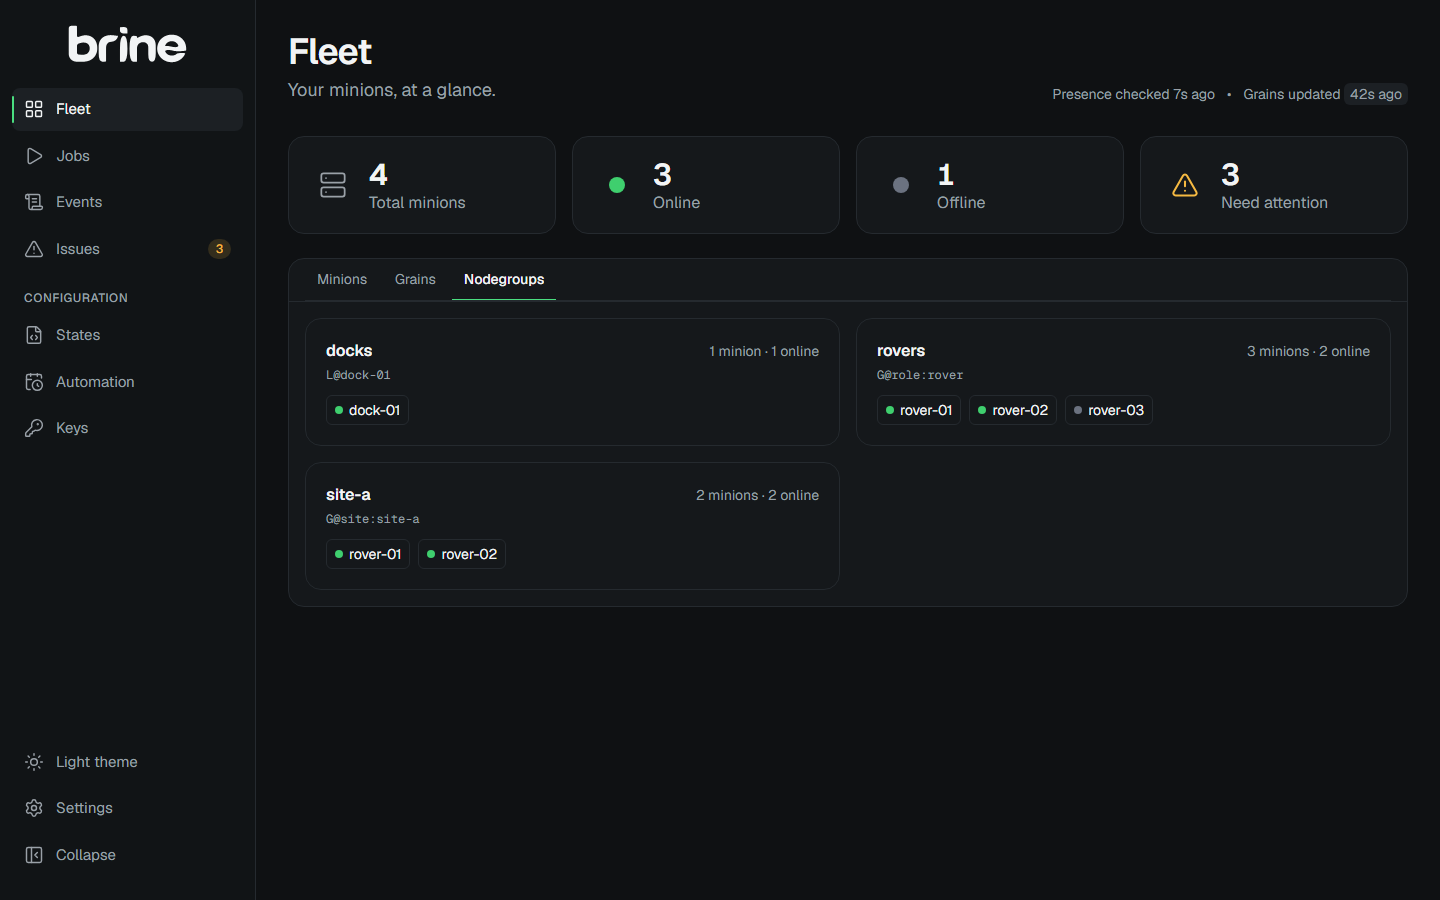
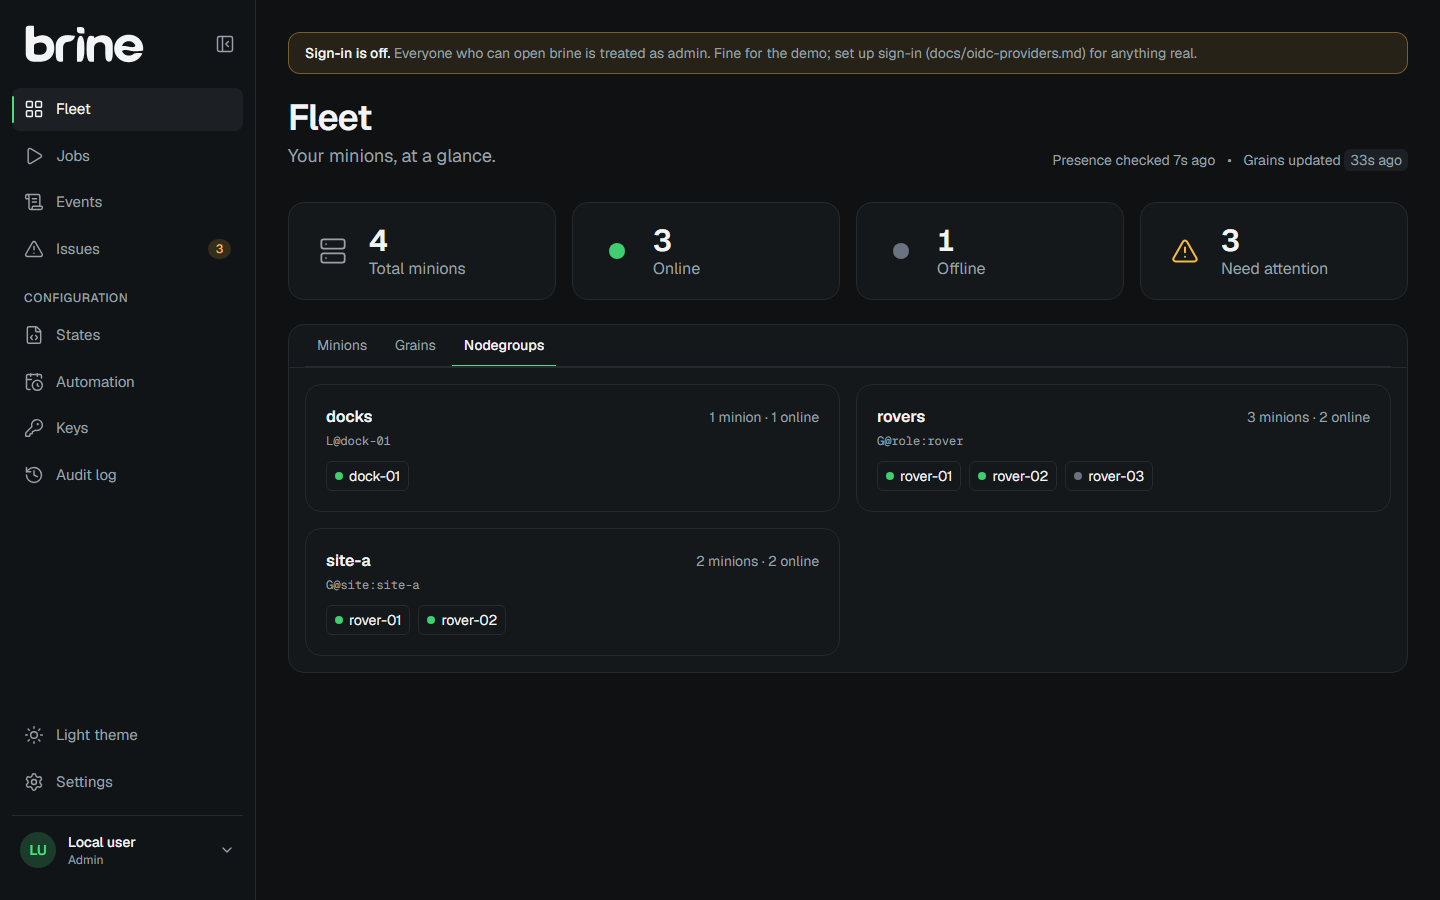
Docs: setting up sign-in with each OIDC provider; audit log screenshots
- docs/oidc-providers.md: what every provider needs, then Google, Okta, Microsoft Entra,
  Keycloak, and GitHub via Dex. Each deployment registers its own client.
- config.example.yaml: public_url, auth.provider, session length, role notes.
- README: sign-in in the feature list and dev instructions, Audit log page; screenshots
  regenerated (the demo runs with sign-in off and says so on every page).
- Decisions 13 (signed-cookie sessions, roles re-read every request) and 14 (sign-in off must
  be asked for). Backlog: Phase 2 done, CSRF header before the first write.

diff --git a/docs/oidc-providers.md b/docs/oidc-providers.md
@@ -1,0 +1,140 @@
+# Sign-in: setting up an OIDC provider
+
+brine signs people in with OpenID Connect, so your team uses the accounts they already have.
+Each brine deployment registers **its own** client with its own provider: nothing is shared
+between installs, and no client ID or secret ships with brine.
+
+The [demo](../README.md#demo-salt-fleet) runs with sign-in off (`auth.provider: none`), so you
+don't need any of this to try brine.
+
+## What every provider needs
+
+1. **Register a "web application" client** (sometimes called confidential client) that uses the
+   authorization code flow.
+2. **Allow one redirect URI:** `<public_url>/api/auth/callback`, for example
+   `https://brine.example.com/api/auth/callback`. It must match exactly: scheme, host, port and
+   path.
+3. **Put the client in brine's config.** Keep the ID and secret out of the file with `${VAR}`
+   placeholders and set them in the environment:
+
+   ```yaml
+   public_url: https://brine.example.com   # how browsers reach brine
+
+   auth:
+     provider: oidc
+     issuer: https://accounts.google.com  # see each provider below
+     client_id: ${OIDC_CLIENT_ID}
+     client_secret: ${OIDC_CLIENT_SECRET}
+     allowed_domains: [example.com]       # optional: refuse every other domain outright
+
+   roles:                                 # email patterns, highest matching role wins
+     viewer:   ["*@example.com"]
+     operator: ["alice@example.com"]
+     admin:    ["bob@example.com"]
+   ```
+
+brine reads `<issuer>/.well-known/openid-configuration`, asks for the `openid email profile`
+scopes, and identifies people by the `email` claim. It refuses a sign-in when the provider says
+the email isn't verified, when the domain isn't in `allowed_domains`, or when no role pattern
+matches. Roles are checked again on every request, so removing someone from `roles` takes effect
+on their next click, not when their session ends.
+
+If `auth` is half filled in (say, an issuer but no secret), brine refuses to start and says what's
+missing, rather than quietly running with sign-in off.
+
+### Trying it locally
+
+Register `http://localhost:5173/api/auth/callback` (the Vite dev server, which forwards `/api`
+to the backend) and, if you also open the backend directly, `http://localhost:8000/api/auth/callback`.
+Put the ID and secret in a git-ignored `.env` at the repo root (see `.env.example`) and start the
+backend with it:
+
+```bash
+cd backend
+BRINE_CONFIG=../config.yaml uv run --env-file ../.env uvicorn app.main:create_app --factory --reload
+```
+
+### Behind a reverse proxy
+
+Set `public_url`. Without it brine builds the redirect URI from each request, which only works
+when the proxy forwards the original `Host` header and scheme. Session cookies are marked
+`Secure` whenever `public_url` starts with `https://`.
+
+## Google
+
+Works for personal Google accounts and Google Workspace.
+
+1. In the [Google Cloud console](https://console.cloud.google.com/), pick or create a project.
+2. **Google Auth Platform › Branding:** give the app a name and support email.
+3. **Audience:** *Internal* (Workspace only) limits sign-in to your organisation. *External*
+   starts in testing mode, where only the test users you list can sign in; that's fine for a
+   small team.
+4. **Clients › Create client:** type *Web application*, add the redirect URI(s) above.
+5. Copy the client ID and secret into your environment.
+
+```yaml
+auth:
+  issuer: https://accounts.google.com
+  allowed_domains: [example.com]   # your Workspace domain; leave out for personal accounts
+```
+
+## Okta
+
+1. **Applications › Create App Integration:** *OIDC - OpenID Connect*, then *Web Application*.
+2. Grant type *Authorization Code*; add the redirect URI as a sign-in redirect URI.
+3. Assign the people or groups who should reach brine (roles in brine's config still apply).
+
+```yaml
+auth:
+  issuer: https://example.okta.com   # or https://example.okta.com/oauth2/default
+```
+
+## Microsoft Entra ID (Azure AD)
+
+1. **App registrations › New registration.** Supported account types: *this organizational
+   directory only* (single tenant). Redirect URI: platform *Web*, the URI above.
+2. **Certificates & secrets › New client secret.** Copy the value (shown once).
+3. **Token configuration › Add optional claim › ID token › `email`.**
+
+```yaml
+auth:
+  issuer: https://login.microsoftonline.com/<tenant-id>/v2.0
+  allowed_domains: [example.com]
+```
+
+Use the single-tenant issuer above, never `common` or `organizations`. Entra doesn't send
+`email_verified`, and in multi-tenant setups the `email` claim can be set by another tenant's
+admin, so it can't be trusted to identify someone. In your own tenant, only your admins control
+it. Keep `allowed_domains` set as well.
+
+## Keycloak
+
+1. In your realm, **Clients › Create client:** type *OpenID Connect*, then turn on *Client
+   authentication* and *Standard flow*.
+2. Add the redirect URI under *Valid redirect URIs*.
+3. Copy the secret from the client's *Credentials* tab.
+
+```yaml
+auth:
+  issuer: https://keycloak.example.com/realms/<realm>
+```
+
+Keycloak sends `email_verified`; users whose email isn't verified in Keycloak are refused.
+
+## GitHub, GitLab and others without OIDC
+
+GitHub's sign-in is plain OAuth 2.0, not OpenID Connect, so brine can't use it directly. Put an
+OIDC broker in front: [Dex](https://dexidp.io/) and Keycloak can both sign people in with GitHub
+and hand brine a standard OIDC identity. GitLab, authentik, Authelia, Zitadel and other OIDC
+providers work with the general steps above.
+
+## Sign-in off
+
+```yaml
+auth:
+  provider: none
+  anonymous_role: viewer   # what everyone gets; brine shows a banner saying so
+```
+
+For the demo and for single-user setups on a trusted network only: anyone who can reach brine
+gets `anonymous_role`. Nothing is asked of anyone, and the audit log records them as `local`.

diff --git a/README.md b/README.md
@@ -9,11 +9,11 @@
 
 ---
 
-> **Status: early development.** Every read-only page works against the demo fleet. Sign-in (OIDC) and roles are next, then running commands. Follow [docs/backlog.md](docs/backlog.md) for progress.
+> **Status: early development.** Every read-only page works against the demo fleet, behind OIDC sign-in and roles. Running commands comes next, starting with key management. Follow [docs/backlog.md](docs/backlog.md) for progress.
 
 brine plugs into an existing **salt-master + salt-api** and gives your team a clean, fast view of the fleet:
 
-- **Single sign-on** through any OIDC provider (Google, GitHub, Okta, Keycloak, Azure AD). No Salt credentials for end users.
+- **Single sign-on** through any OIDC provider: Google, Okta, Microsoft Entra, Keycloak, or GitHub via Dex ([setup](docs/oidc-providers.md)). Viewer, operator and admin roles by email pattern. No Salt credentials for end users.
 - **Live vs. cached, clearly separated.** Online now, or last seen *X* ago, with grains marked "as of" when they were collected.
 - **Per-minion pages** with grains (current and history), recent jobs, and a presence timeline.
 - **Job history that outlives Salt's job cache.**
@@ -149,10 +149,22 @@ to the minion or job. The count also appears on the Fleet page and in the sideba
   <img alt="The Issues page: a failed state on dock-01, rover-03 offline, rover-04 waiting for approval" src="docs/assets/screenshots/issues-light.png">
 </picture>
 
+### Audit log
+
+Admins only. Every sign-in (and every refused one, with the reason), sign-out, and look at
+sensitive data such as a minion's pillar, with who, when and from where. Commands will land here
+too.
+
+<picture>
+  <source media="(prefers-color-scheme: dark)" srcset="docs/assets/screenshots/audit-dark.png">
+  <img alt="The Audit log page: sign-ins, refused sign-ins and pillar views" src="docs/assets/screenshots/audit-light.png">
+</picture>
+
 ### Settings
 
 What this brine is running with: the salt-api connection and service account, which presence
-method is active, fleet defaults, database and sign-in. Secrets never leave the server. Plus
+method is active, fleet defaults, database, and how sign-in and roles are set up (pattern
+counts, not who holds them). Secrets never leave the server. Plus
 per-browser choices: theme (light, dark or follow the system) and resetting custom columns.
 
 <picture>
@@ -212,6 +224,15 @@ BRINE_CONFIG=../demo/brine.yaml uv run uvicorn app.main:create_app --factory --r
 cd frontend
 npm install
 npm run dev
+```
+
+The demo config runs with sign-in off: everyone is an admin, and a banner says so. To try real
+sign-in, register an OIDC client ([docs/oidc-providers.md](docs/oidc-providers.md)), put its ID
+and secret in a git-ignored `.env` (see `.env.example`), and point a git-ignored `config.yaml` at
+it:
+
+```bash
+BRINE_CONFIG=../config.yaml uv run --env-file ../.env uvicorn app.main:create_app --factory --reload
 ```
 
 Checks (the same ones CI runs):

diff --git a/docs/decisions.md b/docs/decisions.md
@@ -92,3 +92,19 @@ Salt's presence detection matches TCP peers against IP grains in the master's mi
 A minion missing from that cache is invisible to presence even while it answers jobs. brine
 notes such minions whenever it reads the cache, shows them as stale instead of offline, and
 raises an issue with the fix. Found on the demo fleet when a recreated master lost its cache.
+
+## 13. Sessions are signed cookies; roles come from the config on every request
+
+The session cookie holds only who signed in (email, name, picture), signed with a secret from
+the config or, if none is set, one brine generates once and keeps in its database, so restarts
+don't sign everyone out. There's no users table: the role is worked out from `roles` on every
+request. Editing the config and restarting is how you grant or take away access, and it applies
+to people who are already signed in. The cost is that a session can't be revoked on its own
+before it expires; removing the person from `roles` does the same job.
+
+## 14. Sign-in off has to be asked for
+
+`auth.provider` defaults to `oidc`, and an OIDC block that's missing its issuer, client ID or
+secret stops brine at startup with a pointer to the setup guide. Running with no sign-in takes an
+explicit `provider: none`, and then every page shows a banner saying who everyone is treated as.
+A typo in the config should never leave a fleet view open to the network.

diff --git a/docs/backlog.md b/docs/backlog.md
@@ -28,10 +28,14 @@ Follow-ups found along the way:
 
 ## Phase 2 — Auth and roles
 
-- [ ] OIDC login (Google first), secure cookie sessions, domain/email allowlists
-- [ ] Role mapping (viewer / operator / admin) enforced on every endpoint
-- [ ] Audit: logins and views of sensitive data (pillar)
-- [ ] Docs: OIDC providers, Salt eauth ACL for the service account
+- [x] OIDC login (Google first), signed httpOnly cookie sessions (SameSite=Lax, Secure behind https), domain allowlist
+- [x] Role mapping (viewer / operator / admin) by email pattern, re-checked on every request; every API endpoint locked
+- [x] Sign-in off mode (`auth.provider: none`) for the demo, with a banner; half-configured OIDC refuses to start
+- [x] Audit: sign-ins, refused sign-ins (with reason), sign-outs, pillar views; admin-only Audit log page
+- [x] Sign-in page, user menu with sign-out, Settings › Sign-in
+- [x] Docs: OIDC providers (docs/oidc-providers.md), Salt eauth ACL for the service account
+- [ ] CSRF: require a custom header on every write (before Phase 5's first write)
+- [ ] Audit retention and export
 
 ## Phase 3 — Frontend v1 (SaltGUI read-only parity + brine extras)
 
